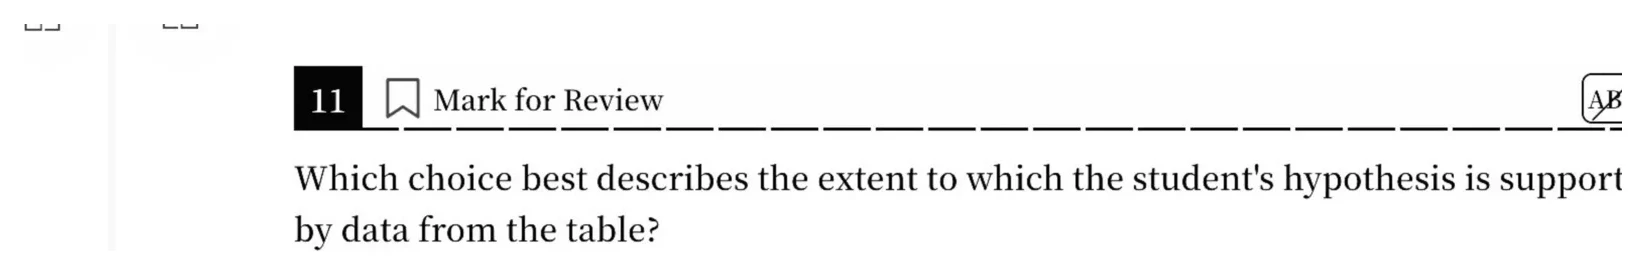
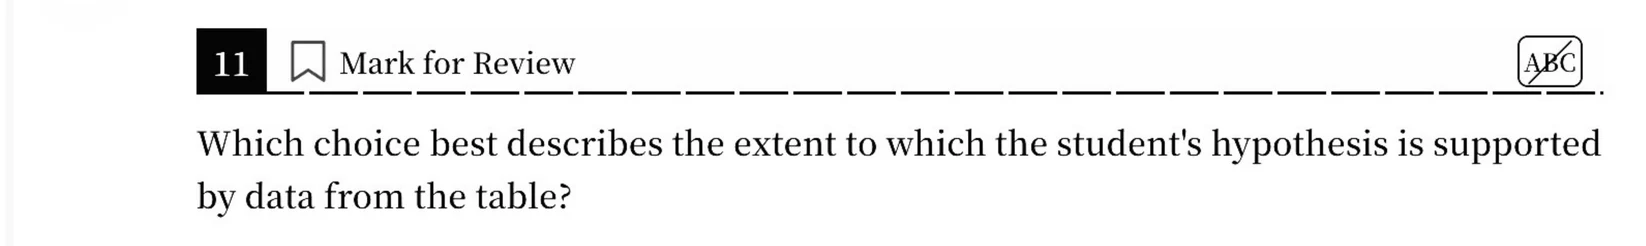
Class 11 (14 November): class page with annotated handouts and class summary; Mock 2; Mock 1 Question 38 shown in full

diff --git a/index.html b/index.html
@@ -24,6 +24,7 @@
       </div>
       <nav class="date-tree" aria-label="Class history">
         <p class="sidebar-label">Completed classes</p>
+        <a class="tree-link" href="2026-11-14/"><span class="tree-date">11-14</span><span class="tree-title">Class 11 · Mock 1 Review, Real Verb, Evidence, One Long Sentence</span></a>
         <a class="tree-link" href="2026-11-07/"><span class="tree-date">11-07</span><span class="tree-title">Class 10 · Evidence, Long Sentences, No Mark and Long Lists</span></a>
         <a class="tree-link" href="2026-10-31/"><span class="tree-date">10-31</span><span class="tree-title">Class 09 · Parallel Structure, Read to the End, What a Phrase Describes</span></a>
         <a class="tree-link" href="2026-10-24/"><span class="tree-date">10-24</span><span class="tree-title">Class 08 · The Comma, Rhetorical Synthesis, Parallel Structure</span></a>
@@ -46,8 +47,9 @@
       </header>
 
       <section class="month-section" id="class-logbook">
-        <div class="section-heading"><h2>Class Logbook</h2><span>11 completed classes</span></div>
+        <div class="section-heading"><h2>Class Logbook</h2><span>12 completed classes</span></div>
         <a class="course-plan-banner" href="course-plan/"><span><small>Classes 01–14</small><strong>Open the 20-Hour Course Plan</strong></span><span aria-hidden="true">→</span></a>
+        <div class="round-start-card" style="margin-bottom:14px"><time datetime="2026-11-14"><span>Nov</span><strong>14</strong></time><div><p class="round-start-kicker">Class 11</p><h3>Mock 1 Review, Real Verb, Evidence, One Long Sentence</h3><p>Mock 1 review, a blank inside a long subject, findings that show a before and after, and the core and inserts of one long sentence.</p></div><a href="2026-11-14/">Open Class 11 →</a></div>
         <div class="round-start-card" style="margin-bottom:14px"><time datetime="2026-11-07"><span>Nov</span><strong>7</strong></time><div><p class="round-start-kicker">Class 10</p><h3>Evidence, Long Sentences, No Mark and Long Lists</h3><p>How to find the subject of a long sentence, where no mark belongs, how long lists are punctuated, and how a model, a quotation or a finding must fit every part of a claim.</p></div><a href="2026-11-07/">Open Class 10 →</a></div>
         <div class="round-start-card" style="margin-bottom:14px"><time datetime="2026-10-31"><span>Oct</span><strong>31</strong></time><div><p class="round-start-kicker">Class 09</p><h3>Parallel Structure, Read to the End, What a Phrase Describes</h3><p>What must match across <i>and</i> and in a comparison, how to read past the blank to every real verb, and how to find the head noun and what each phrase describes.</p></div><a href="2026-10-31/">Open Class 09 →</a></div>
         <div class="round-start-card" style="margin-bottom:14px"><time datetime="2026-10-24"><span>Oct</span><strong>24</strong></time><div><p class="round-start-kicker">Class 08</p><h3>The Comma, Rhetorical Synthesis, Parallel Structure</h3><p>When two clauses need a comma, how to use notes to reach a goal, and how verbs joined by <i>and</i> keep the same form.</p></div><a href="2026-10-24/">Open Class 08 →</a></div>
@@ -71,8 +73,8 @@
       </section>
 
       <section class="month-section" id="weekly-check">
-        <div class="section-heading"><h2>Homework &amp; Practice</h2><span>Class 10 · two sets: 10 and 10 questions</span></div>
-        <div class="booster-grid"><a class="booster-card reading" href="2026-11-07/homework-long-sentences/"><span class="booster-kicker">Required · Class 10</span><h3>Homework 1 — Long Sentences and No Mark</h3><p>10 questions: find the head noun and its real verb, name the noun a pronoun means, and keep core parts together.</p><span class="booster-link">Open homework →</span></a><a class="booster-card reading" href="2026-11-07/homework-reading/"><span class="booster-kicker">Required · Class 10</span><h3>Homework 2 — Reading: Models, Quotations, Evidence</h3><p>10 questions: two texts, quotations for a claim, and findings that support an explanation.</p><span class="booster-link">Open homework →</span></a><a class="booster-card reading" href="2026-10-31/homework-sentence-structure/"><span class="booster-kicker">Required · Class 09</span><h3>Homework 1 — Sentence Structure: Read to the End</h3><p>10 questions: read past the blank, find every real verb and its subject, then choose the mark.</p><span class="booster-link">Open homework →</span></a><a class="booster-card reading" href="2026-10-31/homework-phrase-structure/"><span class="booster-kicker">Required · Class 09</span><h3>Homework 2 — Phrase Structure: What a Phrase Describes</h3><p>10 questions: find the head noun and the real verb, and say what each phrase describes.</p><span class="booster-link">Open homework →</span></a><a class="booster-card reading" href="2026-10-24/homework-synthesis/"><span class="booster-kicker">Required · Class 08</span><h3>Homework 1 — Rhetorical Synthesis</h3><p>11 questions: use notes to reach a goal (a difference, a likeness, a study’s aim or findings, a quotation, a reader who knows or does not know the topic), and one transition.</p><span class="booster-link">Open homework →</span></a><a class="booster-card reading" href="2026-10-24/homework-parallel/"><span class="booster-kicker">Required · Class 08</span><h3>Homework 2 — Parallel Structure and Opening Phrases</h3><p>22 questions: verbs joined by and, lists of verbs, to / -ing / -ed forms, opening phrases and the subject after the comma, plus a comma and a who / whom.</p><span class="booster-link">Open homework →</span></a><a class="booster-card reading" href="2026-10-17/homework-transitions/"><span class="booster-kicker">Required · Class 07</span><h3>Homework 1 — Transitions</h3><p>15 questions on transitions: contrast, cause and result, examples, a concession, a comment, and words that add or sharpen a point.</p><span class="booster-link">Open homework →</span></a><a class="booster-card reading" href="2026-10-17/homework-dash/"><span class="booster-kicker">Required · Class 07</span><h3>Homework 2 — The Dash and Paired Marks</h3><p>12 questions on extra information: commas, dashes and parentheses in pairs, labels before names, inserted words such as however.</p><span class="booster-link">Open homework →</span></a><a class="booster-card reading" href="2026-10-17/homework-pronouns/"><span class="booster-kicker">Required · Class 07</span><h3>Homework 3 — Pronouns</h3><p>8 questions on pronouns: finding the noun a pronoun stands for, who or whom, and who owns what.</p><span class="booster-link">Open homework →</span></a><a class="booster-card reading" href="2026-10-10/homework-nouns/"><span class="booster-kicker">Required · Class 06</span><h3>Homework 1 — Nouns and Possessives</h3><p>15 questions on nouns and possessives: how many, ownership or contraction (its, it’s, their, they’re), and who owns what.</p><span class="booster-link">Open homework →</span></a><a class="booster-card reading" href="2026-10-10/homework-colon/"><span class="booster-kicker">Required · Class 06</span><h3>Homework 2 — The Colon</h3><p>15 questions on the colon: what must stand before it, a list or an explanation after it, and where no mark belongs.</p><span class="booster-link">Open homework →</span></a><a class="booster-card reading" href="2026-10-10/homework-cross-text/"><span class="booster-kicker">Required · Class 06</span><h3>Homework 3 — Cross-Text Connections</h3><p>10 questions with two short texts: how one author would respond to the other, what an author would say about an underlined claim, how the texts relate, and what both would agree with.</p><span class="booster-link">Open homework →</span></a><a class="booster-card reading" href="2026-10-03/homework-verbs/"><span class="booster-kicker">Required · Class 05</span><h3>Homework 1 — Verbs: Time and Aspect</h3><p>15 questions on verb time: past simple and present perfect, earlier past events, the present for facts and for what a text says, and keeping or shifting tense.</p><span class="booster-link">Open homework →</span></a><a class="booster-card reading" href="2026-10-03/homework-semicolon/"><span class="booster-kicker">Required · Class 05</span><h3>Homework 2 — The Semicolon</h3><p>15 questions on the marks between two sentences (with and without an adverb such as however or therefore) and on semicolons in a list.</p><span class="booster-link">Open homework →</span></a><a class="booster-card reading" href="2026-10-03/homework-data/"><span class="booster-kicker">Required · Class 05</span><h3>Homework 3 — Evidence from Data</h3><p>15 questions with a line graph, a table or a bar graph: say what the data must show, then check each half of each choice.</p><span class="booster-link">Open homework →</span></a><a class="booster-card reading" href="2026-09-26/homework/"><span class="booster-kicker">Required · Class 04</span><h3>Inference Patterns and Clause Agreement</h3><p>25 questions: 20 inference questions in three patterns, and 5 clause-agreement questions.</p><span class="booster-link">Open homework →</span></a><a class="booster-card reading" href="2026-09-19/homework/"><span class="booster-kicker">Required · Class 03</span><h3>Subjects, Evidence and Modifiers</h3><p>20 questions: 8 subjects after verbs, 4 weakening questions, and 8 nonfinite modifiers.</p><span class="booster-link">Open homework →</span></a><a class="booster-card reading" href="2026-09-12/homework-mistake-review/"><span class="booster-kicker">Required · Class 02</span><h3>Homework 1 — Precision and Structure Review</h3><p>20 questions. Modifier control, precise vocabulary and evidence matching, and research reasoning.</p><span class="booster-link">Open practice →</span></a><a class="booster-card reading" href="2026-09-12/homework-text-structure-purpose/"><span class="booster-kicker">Required · Class 02</span><h3>Homework 2 — What Is This Text Doing?</h3><p>15 questions. Five main-purpose, five overall-structure, and five part-function questions across different subjects and genres.</p><span class="booster-link">Open practice →</span></a><a class="booster-card reading" href="2026-09-12/practice-agreement/"><span class="booster-kicker">Required · Class 02</span><h3>Agreement in Complex Sentences — Independent Practice</h3><p>12 written responses and 1 SAT question. Your teacher reads the written responses.</p><span class="booster-link">Open practice →</span></a></div><h3>Earlier homework and suggested practice</h3>
+        <div class="section-heading"><h2>Homework &amp; Practice</h2><span>Class 11 · Mock 2: 55 questions</span></div>
+        <div class="booster-grid"><a class="booster-card mock" href="mock-2/"><span class="booster-kicker">Required · Class 11</span><h3>Mock 2</h3><p>A full Reading and Writing practice test: two modules and one extra question, 55 questions.</p><span class="booster-link">Open Mock 2 →</span></a><a class="booster-card reading" href="2026-11-07/homework-long-sentences/"><span class="booster-kicker">Required · Class 10</span><h3>Homework 1 — Long Sentences and No Mark</h3><p>10 questions: find the head noun and its real verb, name the noun a pronoun means, and keep core parts together.</p><span class="booster-link">Open homework →</span></a><a class="booster-card reading" href="2026-11-07/homework-reading/"><span class="booster-kicker">Required · Class 10</span><h3>Homework 2 — Reading: Models, Quotations, Evidence</h3><p>10 questions: two texts, quotations for a claim, and findings that support an explanation.</p><span class="booster-link">Open homework →</span></a><a class="booster-card reading" href="2026-10-31/homework-sentence-structure/"><span class="booster-kicker">Required · Class 09</span><h3>Homework 1 — Sentence Structure: Read to the End</h3><p>10 questions: read past the blank, find every real verb and its subject, then choose the mark.</p><span class="booster-link">Open homework →</span></a><a class="booster-card reading" href="2026-10-31/homework-phrase-structure/"><span class="booster-kicker">Required · Class 09</span><h3>Homework 2 — Phrase Structure: What a Phrase Describes</h3><p>10 questions: find the head noun and the real verb, and say what each phrase describes.</p><span class="booster-link">Open homework →</span></a><a class="booster-card reading" href="2026-10-24/homework-synthesis/"><span class="booster-kicker">Required · Class 08</span><h3>Homework 1 — Rhetorical Synthesis</h3><p>11 questions: use notes to reach a goal (a difference, a likeness, a study’s aim or findings, a quotation, a reader who knows or does not know the topic), and one transition.</p><span class="booster-link">Open homework →</span></a><a class="booster-card reading" href="2026-10-24/homework-parallel/"><span class="booster-kicker">Required · Class 08</span><h3>Homework 2 — Parallel Structure and Opening Phrases</h3><p>22 questions: verbs joined by and, lists of verbs, to / -ing / -ed forms, opening phrases and the subject after the comma, plus a comma and a who / whom.</p><span class="booster-link">Open homework →</span></a><a class="booster-card reading" href="2026-10-17/homework-transitions/"><span class="booster-kicker">Required · Class 07</span><h3>Homework 1 — Transitions</h3><p>15 questions on transitions: contrast, cause and result, examples, a concession, a comment, and words that add or sharpen a point.</p><span class="booster-link">Open homework →</span></a><a class="booster-card reading" href="2026-10-17/homework-dash/"><span class="booster-kicker">Required · Class 07</span><h3>Homework 2 — The Dash and Paired Marks</h3><p>12 questions on extra information: commas, dashes and parentheses in pairs, labels before names, inserted words such as however.</p><span class="booster-link">Open homework →</span></a><a class="booster-card reading" href="2026-10-17/homework-pronouns/"><span class="booster-kicker">Required · Class 07</span><h3>Homework 3 — Pronouns</h3><p>8 questions on pronouns: finding the noun a pronoun stands for, who or whom, and who owns what.</p><span class="booster-link">Open homework →</span></a><a class="booster-card reading" href="2026-10-10/homework-nouns/"><span class="booster-kicker">Required · Class 06</span><h3>Homework 1 — Nouns and Possessives</h3><p>15 questions on nouns and possessives: how many, ownership or contraction (its, it’s, their, they’re), and who owns what.</p><span class="booster-link">Open homework →</span></a><a class="booster-card reading" href="2026-10-10/homework-colon/"><span class="booster-kicker">Required · Class 06</span><h3>Homework 2 — The Colon</h3><p>15 questions on the colon: what must stand before it, a list or an explanation after it, and where no mark belongs.</p><span class="booster-link">Open homework →</span></a><a class="booster-card reading" href="2026-10-10/homework-cross-text/"><span class="booster-kicker">Required · Class 06</span><h3>Homework 3 — Cross-Text Connections</h3><p>10 questions with two short texts: how one author would respond to the other, what an author would say about an underlined claim, how the texts relate, and what both would agree with.</p><span class="booster-link">Open homework →</span></a><a class="booster-card reading" href="2026-10-03/homework-verbs/"><span class="booster-kicker">Required · Class 05</span><h3>Homework 1 — Verbs: Time and Aspect</h3><p>15 questions on verb time: past simple and present perfect, earlier past events, the present for facts and for what a text says, and keeping or shifting tense.</p><span class="booster-link">Open homework →</span></a><a class="booster-card reading" href="2026-10-03/homework-semicolon/"><span class="booster-kicker">Required · Class 05</span><h3>Homework 2 — The Semicolon</h3><p>15 questions on the marks between two sentences (with and without an adverb such as however or therefore) and on semicolons in a list.</p><span class="booster-link">Open homework →</span></a><a class="booster-card reading" href="2026-10-03/homework-data/"><span class="booster-kicker">Required · Class 05</span><h3>Homework 3 — Evidence from Data</h3><p>15 questions with a line graph, a table or a bar graph: say what the data must show, then check each half of each choice.</p><span class="booster-link">Open homework →</span></a><a class="booster-card reading" href="2026-09-26/homework/"><span class="booster-kicker">Required · Class 04</span><h3>Inference Patterns and Clause Agreement</h3><p>25 questions: 20 inference questions in three patterns, and 5 clause-agreement questions.</p><span class="booster-link">Open homework →</span></a><a class="booster-card reading" href="2026-09-19/homework/"><span class="booster-kicker">Required · Class 03</span><h3>Subjects, Evidence and Modifiers</h3><p>20 questions: 8 subjects after verbs, 4 weakening questions, and 8 nonfinite modifiers.</p><span class="booster-link">Open homework →</span></a><a class="booster-card reading" href="2026-09-12/homework-mistake-review/"><span class="booster-kicker">Required · Class 02</span><h3>Homework 1 — Precision and Structure Review</h3><p>20 questions. Modifier control, precise vocabulary and evidence matching, and research reasoning.</p><span class="booster-link">Open practice →</span></a><a class="booster-card reading" href="2026-09-12/homework-text-structure-purpose/"><span class="booster-kicker">Required · Class 02</span><h3>Homework 2 — What Is This Text Doing?</h3><p>15 questions. Five main-purpose, five overall-structure, and five part-function questions across different subjects and genres.</p><span class="booster-link">Open practice →</span></a><a class="booster-card reading" href="2026-09-12/practice-agreement/"><span class="booster-kicker">Required · Class 02</span><h3>Agreement in Complex Sentences — Independent Practice</h3><p>12 written responses and 1 SAT question. Your teacher reads the written responses.</p><span class="booster-link">Open practice →</span></a></div><h3>Earlier homework and suggested practice</h3>
         <div class="booster-grid">
           <a class="booster-card reading" href="2026-08-29/homework-central-ideas-nonfinite/"><span class="booster-kicker">Required · Week 1 homework</span><h3>Central Ideas + Nonfinite Modifiers</h3><p>Complete 30 difficult questions using the methods from Class 01, then submit your selected answers.</p><span class="booster-link">Open homework →</span></a>
           <a class="booster-card mock" href="mock-1/"><span class="booster-kicker">Suggested full-length practice</span><h3>Mock 1 · August 22 Test Set</h3><p>Use this 54-question Reading and Writing set to get an estimated score when you are ready.</p><span class="booster-link">Open Mock 1 →</span></a>

diff --git a/assets/assignment.js b/assets/assignment.js
@@ -3,7 +3,7 @@
 
   var config = window.ETHAN_ASSIGNMENT_CONFIG || {};
   var portalConfig = window.ETHAN_PORTAL_CONFIG || {};
-  var imageVersion = '?v=20260828d';
+  var defaultImageVersion = '?v=20260828d';
   var testMode = new URLSearchParams(window.location.search).get('test') === '1';
   var isReview = config.mode === 'review';
   var state = isReview ? null : loadState();
@@ -49,6 +49,8 @@
 
   function questionMarkup(number, localNumber, moduleLabel) {
     var folder = config.imageBase + '/q' + String(number).padStart(2, '0');
+    // A question whose images were replaced carries its own cache tag (Mock 1 Q38, 2026-11-14).
+    var imageVersion = config.imageVersions && config.imageVersions[number] ? '?v=' + config.imageVersions[number] : defaultImageVersion;
     var prompt = (config.promptLayout === 'split' || config.key === 'rw')
       ? '<div class="prompt-grid rw-prompt"><a class="prompt-zoom" href="' + folder + '/prompt-left.webp' + imageVersion + '" target="_blank" rel="noopener" aria-label="Open passage full size"><img class="prompt-image" src="' + folder + '/prompt-left.webp' + imageVersion + '" alt="' + escapeHtml(moduleLabel + ' question ' + localNumber + ' passage') + '" loading="lazy"></a><a class="prompt-zoom" href="' + folder + '/prompt-right.webp' + imageVersion + '" target="_blank" rel="noopener" aria-label="Open question stem full size"><img class="prompt-image" src="' + folder + '/prompt-right.webp' + imageVersion + '" alt="' + escapeHtml(moduleLabel + ' question ' + localNumber + ' stem') + '" loading="lazy"></a></div>'
       : '<div class="prompt-grid single"><a class="prompt-zoom" href="' + folder + '/prompt.webp' + imageVersion + '" target="_blank" rel="noopener" aria-label="Open question prompt full size"><img class="prompt-image" src="' + folder + '/prompt.webp' + imageVersion + '" alt="' + escapeHtml(moduleLabel + ' question ' + localNumber + ' prompt') + '" loading="lazy"></a></div>';
@@ -67,7 +69,7 @@
           '<input id="' + inputId + '" type="radio" name="answer-' + number + '" value="' + answer + '" data-answer-input data-number="' + number + '"' + (isReview ? ' disabled' : '') + '>' +
           '<span class="visually-hidden">Select option ' + answer + '</span>' +
           '<span class="option-letter" aria-hidden="true">' + answer + '.</span>' +
-          '<img class="option-image" src="' + folder + '/option-' + answer + '.webp' + imageVersion + '" alt="Option ' + answer + ' from the source question" loading="lazy">' +
+          '<img class="option-image" src="' + folder + '/option-' + answer + '.webp' + defaultImageVersion + '" alt="Option ' + answer + ' from the source question" loading="lazy">' +
         '</label>';
       }).join('') + '</div>';
   }

diff --git a/mock-2/index.html b/mock-2/index.html
@@ -1,0 +1,38 @@
+<!doctype html>
+<html lang="en" class="access-pending">
+<head>
+  <meta charset="utf-8">
+  <meta name="viewport" content="width=device-width, initial-scale=1">
+  <link rel="stylesheet" href="../assets/gate.css?v=20261104-responsive">
+  <script src="../assets/config.js"></script>
+  <script src="../assets/gate.js?v=20261002" defer></script>
+  <meta name="robots" content="noindex, nofollow, noarchive">
+  <title>Mock 2 · Ethan SAT</title>
+  <link rel="stylesheet" href="../assets/boosters.css?v=20261104-responsive">
+  <link rel="stylesheet" href="../assets/booster-practice.css?v=20261104-responsive">
+  <link rel="stylesheet" href="../assets/skill-booster.css?v=20261104-responsive">
+  <style>.mock2-label{margin:0 0 8px;color:#6d7069;font-size:.86rem;letter-spacing:.02em}.booster-figure img{border-radius:6px}</style>
+</head>
+<body>
+  <main class="page booster-practice-page">
+    <header class="hero booster-practice-hero">
+      <div>
+        <p class="eyebrow">Class 11 · Homework</p>
+        <h1>Mock 2</h1>
+        <p class="hero-copy">A full Reading and Writing practice test: Module 1 (27 questions), Module 2 (27 questions) and one extra question. Use your normal SAT pacing, then submit to see your result.</p>
+      </div>
+      <aside class="hero-note"><strong>Before you submit</strong>Finish every question first. You can submit once.</aside>
+    </header>
+    <section class="booster-inline-practice" aria-labelledby="practice-title">
+      <div class="booster-answer-heading">
+        <div><p class="eyebrow">Mock 2</p><h2 id="practice-title">Reading and Writing · 55 questions</h2></div>
+        <p class="booster-inline-note">Questions you miss go to your Mistake Logbook.</p>
+      </div>
+      <div class="booster-question-list"></div>
+    </section>
+  </main>
+  <script>window.ETHAN_BOOSTER_CONFIG={"assignmentId": "eth-class-11-mock2-55-20261114", "assignmentLabel": "Class 11 Homework — Mock 2", "progressLabel": "Class 11 · Mock 2", "returnUrl": "../2026-11-14/", "supplementCount": 55};window.ETHAN_BOOSTER_CONFIG.submissionEndpoint=window.ETHAN_PORTAL_CONFIG.submissionEndpoint;</script>
+  <script src="../assets/submission-origin.js?v=20261012" defer></script>
+  <script src="../assets/booster-practice.js?v=20261024" defer></script>
+</body>
+</html>

diff --git a/2026-11-14/index.html b/2026-11-14/index.html
@@ -1,0 +1,1 @@
+<!doctype html><html lang="en" class="access-pending"><head><meta charset="utf-8"><meta name="viewport" content="width=device-width,initial-scale=1"><meta name="robots" content="noindex,nofollow,noarchive"><title>Class 11 · Ethan SAT</title><link rel="stylesheet" href="../assets/hub.css?v=20261104-responsive"><link rel="stylesheet" href="../assets/gate.css?v=20261104-responsive"><script src="../assets/config.js"></script><script src="../assets/gate.js?v=20261002" defer></script><style>.class-entry{max-width:860px;margin:auto;padding:26px 32px 60px;color:#213d4b}.class-entry h1{font-size:clamp(28px,4vw,42px);margin:6px 0 4px}.class-entry section{margin:30px 0 0}.class-entry h2{margin:0 0 6px;font-size:20px}.class-entry a.item{display:flex;justify-content:space-between;align-items:center;gap:14px;margin:10px 0 0;padding:16px 18px;border:1px solid #c9d9df;border-radius:10px;background:#fff;color:#213d4b;text-decoration:none;font-weight:600}.class-entry a.item span{flex:none;color:#155e6d;font-size:14px;font-weight:700}.class-entry a.item:hover{border-color:#155e6d}.class-entry a.item:focus-visible{outline:3px solid #213d4b;outline-offset:3px}@media(max-width:640px){.class-entry{padding:20px 14px 48px}.class-entry a.item{padding:14px}}</style></head><body><main class="class-entry"><a href="../">← Course home</a><header><p>14 November 2026 · Class 11</p><h1>Mock 1 Review, Real Verb, Evidence, One Long Sentence</h1></header><section id="handout"><h2>Class Handout</h2><a class="item" href="review-mock-1/">Mock 1 — Questions 14, 19, 21, 30, 31, 36, 39, 49 (reviewed)<span>Open →</span></a><a class="item" href="handout-real-verb/">Is the Blank the Real Verb?: Question 1 (annotated)<span>Open →</span></a><a class="item" href="handout-what-would-show-it/">What Would Show It?: Questions 1 and 2 (annotated)<span>Open →</span></a><a class="item" href="handout-one-long-sentence/">One Long Sentence: Questions 1 and 2 (annotated)<span>Open →</span></a></section><section id="summary"><h2>Class Summary</h2><a class="item" href="summary/">Class Summary<span>Open →</span></a></section><section id="hm"><h2>HM</h2><a class="item" href="../mock-2/">Mock 2 (55 questions)<span>Open →</span></a></section></main></body></html>

diff --git a/2026-11-14/review-mock-1/index.html b/2026-11-14/review-mock-1/index.html
@@ -1,0 +1,1 @@
+<!doctype html><html lang="en" class="access-pending"><head><meta charset="utf-8"><meta name="viewport" content="width=device-width,initial-scale=1"><meta name="robots" content="noindex,nofollow,noarchive"><title>Mock 1 — Questions 14, 19, 21, 30, 31, 36, 39, 49 (reviewed) · Ethan SAT</title><link rel="stylesheet" href="../../assets/gate.css?v=20261104-responsive"><link rel="stylesheet" href="../../assets/resource-shell.css?v=20261104-responsive"><script src="../../assets/config.js"></script><script src="../../assets/gate.js?v=20261002" defer></script><script src="../../assets/resource-shell.js?v=20261002" defer></script></head><body data-resource-id="eth-class-11-review-mock-1-20261114" data-resource-state="loading"><main class="resource-shell"><p class="resource-kicker">Ethan SAT · Class 11</p><h1>Mock 1 — Questions 14, 19, 21, 30, 31, 36, 39, 49 (reviewed)</h1><p class="resource-status" id="resource-status" role="status" aria-live="polite">Opening your class material…</p><a class="resource-back" href="../">← Return to Class 11</a></main></body></html>

diff --git a/2026-11-14/handout-real-verb/index.html b/2026-11-14/handout-real-verb/index.html
@@ -1,0 +1,1 @@
+<!doctype html><html lang="en" class="access-pending"><head><meta charset="utf-8"><meta name="viewport" content="width=device-width,initial-scale=1"><meta name="robots" content="noindex,nofollow,noarchive"><title>Is the Blank the Real Verb?: Question 1 (annotated) · Ethan SAT</title><link rel="stylesheet" href="../../assets/gate.css?v=20261104-responsive"><link rel="stylesheet" href="../../assets/resource-shell.css?v=20261104-responsive"><script src="../../assets/config.js"></script><script src="../../assets/gate.js?v=20261002" defer></script><script src="../../assets/resource-shell.js?v=20261002" defer></script></head><body data-resource-id="eth-class-11-real-verb-20261114" data-resource-state="loading"><main class="resource-shell"><p class="resource-kicker">Ethan SAT · Class 11</p><h1>Is the Blank the Real Verb?: Question 1 (annotated)</h1><p class="resource-status" id="resource-status" role="status" aria-live="polite">Opening your class material…</p><a class="resource-back" href="../">← Return to Class 11</a></main></body></html>

diff --git a/2026-11-14/handout-one-long-sentence/index.html b/2026-11-14/handout-one-long-sentence/index.html
@@ -1,0 +1,1 @@
+<!doctype html><html lang="en" class="access-pending"><head><meta charset="utf-8"><meta name="viewport" content="width=device-width,initial-scale=1"><meta name="robots" content="noindex,nofollow,noarchive"><title>One Long Sentence: Questions 1 and 2 (annotated) · Ethan SAT</title><link rel="stylesheet" href="../../assets/gate.css?v=20261104-responsive"><link rel="stylesheet" href="../../assets/resource-shell.css?v=20261104-responsive"><script src="../../assets/config.js"></script><script src="../../assets/gate.js?v=20261002" defer></script><script src="../../assets/resource-shell.js?v=20261002" defer></script></head><body data-resource-id="eth-class-11-long-sentence-20261114" data-resource-state="loading"><main class="resource-shell"><p class="resource-kicker">Ethan SAT · Class 11</p><h1>One Long Sentence: Questions 1 and 2 (annotated)</h1><p class="resource-status" id="resource-status" role="status" aria-live="polite">Opening your class material…</p><a class="resource-back" href="../">← Return to Class 11</a></main></body></html>

diff --git a/2026-11-14/handout-what-would-show-it/index.html b/2026-11-14/handout-what-would-show-it/index.html
@@ -1,0 +1,1 @@
+<!doctype html><html lang="en" class="access-pending"><head><meta charset="utf-8"><meta name="viewport" content="width=device-width,initial-scale=1"><meta name="robots" content="noindex,nofollow,noarchive"><title>What Would Show It?: Questions 1 and 2 (annotated) · Ethan SAT</title><link rel="stylesheet" href="../../assets/gate.css?v=20261104-responsive"><link rel="stylesheet" href="../../assets/resource-shell.css?v=20261104-responsive"><script src="../../assets/config.js"></script><script src="../../assets/gate.js?v=20261002" defer></script><script src="../../assets/resource-shell.js?v=20261002" defer></script></head><body data-resource-id="eth-class-11-show-it-20261114" data-resource-state="loading"><main class="resource-shell"><p class="resource-kicker">Ethan SAT · Class 11</p><h1>What Would Show It?: Questions 1 and 2 (annotated)</h1><p class="resource-status" id="resource-status" role="status" aria-live="polite">Opening your class material…</p><a class="resource-back" href="../">← Return to Class 11</a></main></body></html>

diff --git a/2026-11-14/summary/index.html b/2026-11-14/summary/index.html
@@ -1,0 +1,1 @@
+<!doctype html><html lang="en" class="access-pending"><head><meta charset="utf-8"><meta name="viewport" content="width=device-width,initial-scale=1"><meta name="robots" content="noindex,nofollow,noarchive"><title>Class Summary · Ethan SAT</title><link rel="stylesheet" href="../../assets/gate.css?v=20261104-responsive"><link rel="stylesheet" href="../../assets/resource-shell.css?v=20261104-responsive"><script src="../../assets/config.js"></script><script src="../../assets/gate.js?v=20261002" defer></script><script src="../../assets/resource-shell.js?v=20261002" defer></script></head><body data-resource-id="eth-class-11-summary-20261114" data-resource-state="loading"><main class="resource-shell"><p class="resource-kicker">Ethan SAT · Class 11</p><h1>Class Summary</h1><p class="resource-status" id="resource-status" role="status" aria-live="polite">Opening your class material…</p><a class="resource-back" href="../">← Return to Class 11</a></main></body></html>

diff --git a/mock-1/index.html b/mock-1/index.html
@@ -27,10 +27,10 @@
 window.ETHAN_ASSIGNMENT_CONFIG = {
   mode: 'practice', key: 'mock-1-rw', title: 'Mock 1', shortTitle: 'Mock 1', count: 54,
   assignmentId: 'eth-week-01-mock-01-rw-54q', assignmentLabel: 'Mock 1 · August 22 Test Set',
-  imageBase: 'question-ui/rw', promptLayout: 'split', numericQuestions: [],
+  imageBase: 'question-ui/rw', promptLayout: 'split', numericQuestions: [], imageVersions: { 38: '20261114' },
   sessions: [{ label: 'Module 1', start: 1, count: 27 }, { label: 'Module 2', start: 28, count: 27 }]
 };
 </script>
 <script src="../assets/submission-origin.js?v=20261012" defer></script>
-<script src="../assets/assignment.js?v=20261012" defer></script>
+<script src="../assets/assignment.js?v=20261114" defer></script>
 </body></html>
